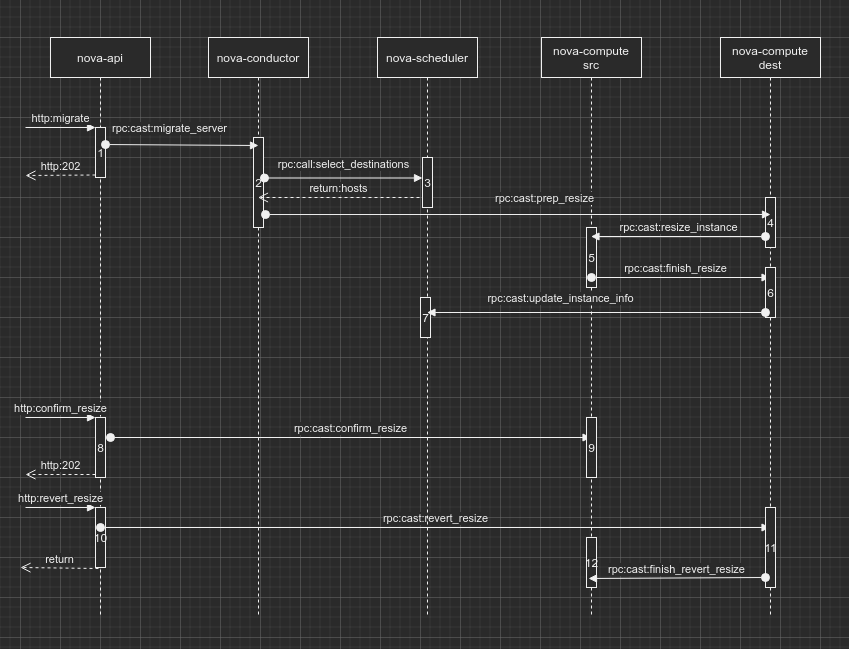
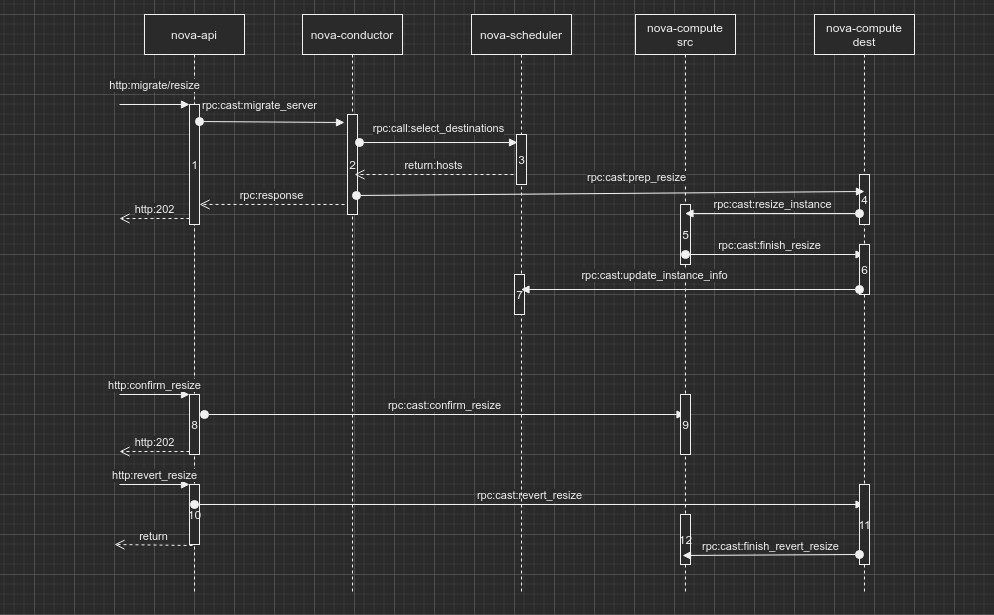
Add live migrate flow

diff --git a/OpenStack/live_migration.md b/OpenStack/live_migration.md
@@ -1,0 +1,170 @@
+### [API](https://docs.openstack.org/api-ref/compute/?expanded=live-migrate-server-os-migratelive-action-detail#live-migrate-server-os-migratelive-action)
+
+>/servers/{server_id}/action
+
+Live-migrates a server to a new host without rebooting.
+
+Specify the os-migrateLive action in the request body.
+
+Use the host parameter to specify the destination host. If this param is null, the scheduler chooses a host. If a scheduled host is not suitable to do migration, the scheduler tries up to migrate_max_retries rescheduling attempts.
+
+Starting from API version 2.25, the block_migration parameter could be to auto so that nova can decide value of block_migration during live migration.
+
+Policy defaults enable only users with the administrative role to perform this operation. Cloud providers can change these permissions through the policy.json file.
+
+Starting from REST API version 2.34 pre-live-migration checks are done asynchronously, results of these checks are available in instance-actions. Nova responds immediately, and no pre-live-migration checks are returned. The instance will not immediately change state to ERROR, if a failure of the live-migration checks occurs.
+
+Starting from API version 2.68, the force parameter is no longer accepted as this could not be meaningfully supported by servers with complex resource allocations.
+
+Normal response codes: 202
+
+Error response codes: badRequest(400), unauthorized(401), forbidden(403) itemNotFound(404), conflict(409)
+
+**Example Live-Migrate Server (os-migrateLive Action)**
+```
+{
+    "os-migrateLive": {
+        "host": "01c0cadef72d47e28a672a76060d492c",
+        "block_migration": "auto",
+        "force": false
+    }
+}
+```
+
+### Overview
+
+
+### Workflow
+
+**1 nova-api(nova.compute.api.API.live_migrate)**
+* check vm_state in [active, puased]
+* save instance task_state to **migrating**
+* get request_spec
+* check force and destination host name
+* rpc cast **live_migrate_instance(async)** to nova-conductor if api version > 2.34 else rpc call **migrate_server(sync)**  **goto 2**
+
+**2 nova-conductor**
+* check instance is active
+* check source host is up
+* without destination
+  * rpc call nova-scheduler select destination hosts **goto 3**
+  * check destination host compatible with source hypervisor
+  * rpc call destination nova-compute to check can live migration destination **goto 4**
+* with destination
+  * check destination is not source
+  * check destination nova-compute host is up
+  * check destination has enough memory
+  * check destination host compatible with source hypervisor
+  * rpc call destination nova-compute to check can live migration destination **goto 4**
+* rpc cast source nova-compute to live migrate instance **goto 6**
+
+**3 nova-scheduler**
+* select destination hosts
+
+**4 nova-compute destination(nova.compute.mananger.ComputeManager.check_can_live_migration_destination)**
+* driver check can live migrate at destination
+  * compare cpu
+  * create share storage test file
+* rpc call source nova-compute to check can live migration at source **goto 5**
+* driver cleanup live migration destination check
+  * cleanup share storage test file
+
+**5 nova-compute source(nova.compute.mananger.ComputeManager.check_can_live_migrate_source)**
+* check is volume backend instance
+* driver check can live migrate at source
+  * check share storage test file
+  * check is share storage block
+  * check destination host has enough disk if block migrate
+
+---
+
+**6 nova-compute source(nova.compute.mananger.ComputeManager.live_migration)**
+* save migration status to "queued"
+* save migration status to "preparing"
+* call destination nova-compute to do pre_live_migration **goto 7**
+* save migration status to "running"
+* driver live migration
+  * get instance guest domain
+  * copy live migration disks if block migration
+  * set libvirt max live migration speed to 1
+  * spawn a green thread to do live migration operation
+    * call libvirt migrate to start live migration
+  * wait neutron vif_plugged_complete event
+  * live migrate monitor
+    * start a loop to get libvirt live migrate job info and check if live migration completed
+    * call post method if job completed -> **post live migration**
+    * call recover method if job cancelled or failed -> **rollback live migration**
+* post live migration
+  * driver post live migration
+    * call cinder api to initialize volume connection
+    * disconnect volumes
+  * call cinder api to terminate volume connection
+  * get instance network info
+  * notify about instnace usage "compute.instance.live_migration._post.start"
+  * driver unfilter instance
+  * call network api migrate instance start
+  * driver post migration at source
+    * unplug vifs
+  * rpc cast post live migration at destination **goto 8**
+  * get live migration cleanup flags
+  * driver cleanup
+    * unfilter instances
+    * call libvirt destory instance if its power is not shutdown
+    * disconnect volumes
+    * call libvirt undefine domain
+  * clear events for instance
+  * update available resource
+  * update scheduler instance info
+  * clean instance console token
+  * save migration status to "completed"
+* rollback live migration
+  * save instance **task_state to None**
+  * call network api to setup network on source host
+  * rpc call destination nova-compute remove volume connection **goto 9**
+  * notify about instance usage "compute.instance._rollback.start"
+  * get live migration cleanup flags
+  * rpc cast rollback live migration at destination **goto 10**
+  * notify about instance usage "compute.instance._rollback.end"
+  * save migration status to "error" or "cancelled"
+
+**7 nova-compute source(nova.compute.mananger.ComputeManager.pre_live_migration)**
+* call cinder api to initialize volume connection
+* call network api to get instance network info
+* notify about instance usage "compute.instance.live_migraton.pre.start"
+* driver pre live migration
+  * remove and recreate instance path dir if not share instance path
+  * create image and backing if not share block storage
+  * connect volume
+* call network api to setup network on destination host
+* driver ensure filtering rules for instance
+* notify about instance usage "compute.instance.live_migration.pre.end"
+
+**8 nova-compute source(nova.compute.mananger.ComputeManager.post_live_migration_at_destination)**
+* call network api to setup network on destination host
+* call network api migrate instance finish on destination
+* call network api get instance network info
+* notify about instance usage "compute.instance.live_migration.post.dest.start"
+* driver post live migration at destination
+  * get libvirt guest domain
+  * get instance libvirt domain xml
+  * write domain xml(libvirt define domain)
+* save instance **task_state to None, power_state to current power state and host to destination host**
+* call network api to setup network on source host -> tear down
+* notify about instance usage "compute.instance.live_migration.post.dest.end"
+
+**9 nova-compute source(nova.compute.mananger.ComputeManager.remove_volume_connection)**
+* driver detach volume
+  * detach from libvirt domain
+  * disconnect volume
+* call cinder api to terminate volume connection
+
+**10 nova-compute source(nova.compute.mananger.ComputeManager.rollback_live_migration_at_destination)**
+* call network api to get instance network info
+* notify about instance usage "compute.instance.live_migration.rollback.dest.start"
+* call network api to setup network on destination host -> tear down
+* driver rollback live migration on destination
+  * call libvirt to destory instance domain
+  * call libvirt undefine instance domain
+  * unplug vifs
+  * disconnect volume
+* notify about instance usage "compute.instance.live_migration.rollback.dest.end"

diff --git a/OpenStack/cold_migrate.md b/OpenStack/cold_migrate.md
@@ -52,7 +52,7 @@ Error response codes: badRequest(400), unauthorized(401), forbidden(403) itemNot
 * quota  reserve if resize
 * save instance task_state to **resize_prep**
 * allow_resize_to_same_host
-* rpc cast to conductor migrate_server **goto 2**
+* rpc call to conductor migrate_server **goto 2**
 
 **2  nova-conductor**
 * set request_spec
